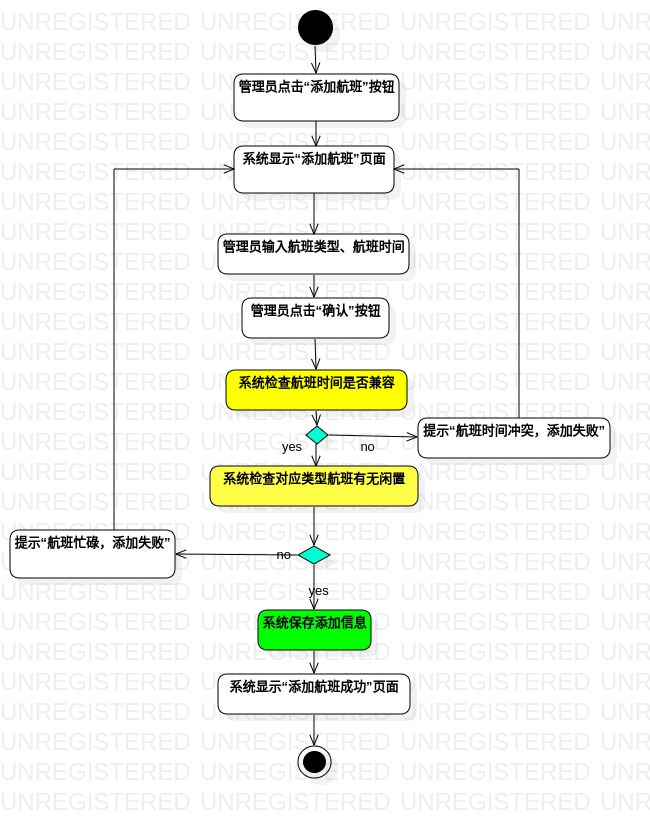
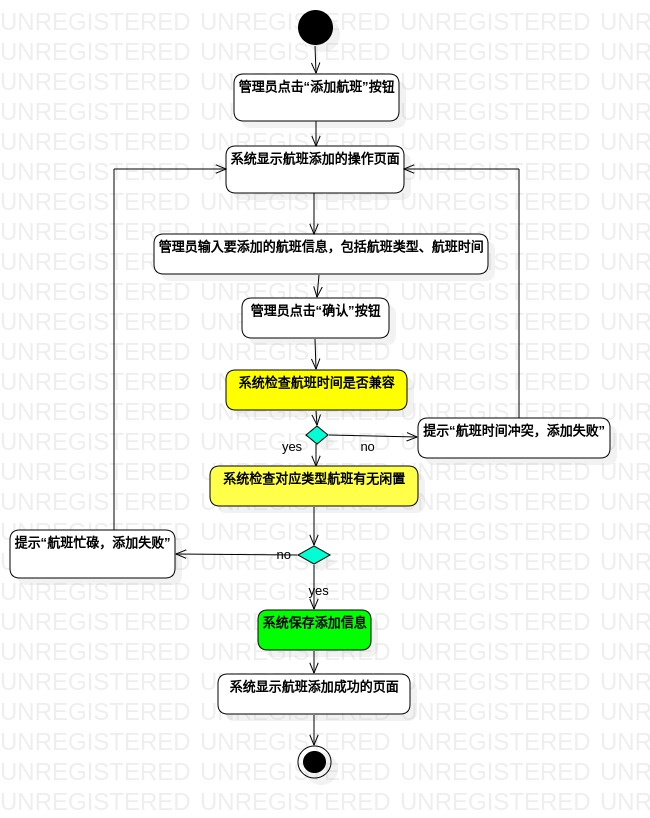
Create lab4&5.md

diff --git a/students/1714080901141/lab4&5.md b/students/1714080901141/lab4&5.md
@@ -1,0 +1,83 @@
+# 实验4&5名称：类建模&高级类建模
+
+## 一、实验目标
+
+#### 1. 掌握类建模的方法；
+#### 2. 了解MVC设计模式；
+#### 3. 理解类的5种关系；
+#### 4. 掌握类图的画法；
+#### 5. 掌握类之间关系的画法。
+
+## 二、实验内容
+
+#### 1. 记录类的知识；
+#### 2. 找出具体的类；
+#### 3. 画类图。
+
+## 三、实验步骤
+
+#### 1. 观看录制视频、学习课堂文档：
+1.1 学习来源：
+- [实验四要求](https://github.com/hzuapps/uml-modeling-2020/issues/4)
+- [实验五要求](https://github.com/hzuapps/uml-modeling-2020/issues/5)
+- [实验45相关的录制视频](https://space.bilibili.com/44472532/ )
+- [百度MVC设计模式](https://baike.baidu.com/item/MVC%E6%A1%86%E6%9E%B6/9241230?fromtitle=MVC%E8%AE%BE%E8%AE%A1%E6%A8%A1%E5%BC%8F&fromid=8160955&fr=aladdin)
+- [UML类图](https://www.jianshu.com/p/57620b762160)
+
+1.2 学习笔记：
+
+1.2.1 视图角度：
+- 用例图：做什么？；活动图：怎么做？；类图：谁做？
+- 逻辑视图：类和高级类。
+
+1.2.2 类的基本概念：
+- 类的概念（实体与对象）。
+- 类的构成及画法（类名、可见性(+、#、~、-)、操作和属性等）。
+
+1.2.3 类之间的关系：依赖（虚线箭头）、关联（实线）、聚合（实线白色菱形箭头）、组合（实线黑色菱形箭头）、继承（实线白三角形）。
+- 依赖：对于两个相对独立的对象，当一个对象负责构造另一个对象的实例，或者依赖另一个对象的服务时，这两个对象之间主要体现为依赖关系。
+- 关联：对于两个相对独立的对象，当一个对象的实例与另一个对象的一些特定实例存在固定的对应关系时，这两个对象之间为关联关系。
+- 聚合：表示一种弱的‘拥有’关系，即has-a的关系，体现的是A对象可以包含B对象，但B对象不是A对象的一部分。 两个对象具有各自的生命周期。
+- 组合：组合是一种强的‘拥有’关系，是一种contains-a的关系，体现了严格的部分和整体关系，部分和整体的生命周期一样。
+- 继承：继承表示是一个类（称为子类、子接口）继承另外的一个类（称为父类、父接口）的功能，并可以增加它自己的新功能的能力。
+
+1.2.4 MVC设计模式：
+- MVC：Model(业务数据)、View(界面)、Controller(功能+控制器)；C可控制M和V，M和V隔绝。
+- Model:模型、实体和**业务数据**；
+- View：视图、**界面**和AbcUI。
+- Controller：控制器、**系统**、Controller和Service。
+
+#### 2. 确定具体的类：
+
+2.1 添加航班：
+- Model(主要根据数据业务寻找)：航班信息A和要添加的航班信息B，其中B聚合于A；
+- View(主要根据“页面”关键字寻找)：航班添加成功页面和添加航班操作页面；
+- Controller(功能+控制器):航班添加控制器。
+
+2.2 取消航班：
+- Model(主要根据数据业务寻找)：航班信息A和要取消的航班信息B，其中B聚合于A；
+- View(主要根据“页面”关键字寻找)：所选航班正在取消的页面、可取消的航班的信息页面和航班取消成功的页面；
+- Controller(功能+控制器):航班取消控制器。
+
+#### 3. 画类图步骤如下：
+
+3.1 根据确定的具体的类，给类命名；
+
+3.2 根据类的类型(M/V/C)，给类标注；
+
+3.3 根据Model间的关系强弱，选择关系对应的线的类型，进行连线。
+
+## 四、实验结果
+
+#### 1. 类图1：添加航班
+![ClassDiagram1](./lab45_ClassDiagram1.jpg)
+
+#### 2. 类图2：取消航班
+![ClassDiagram2](./lab45_ClassDiagram2.jpg)
+
+## 五、实验总结
+
+#### 1. MVC设计模式是一种软件设计典范，用一种业务逻辑、数据、界面显示分离的方法组织代码，将业务逻辑聚集到一个部件里面，在改进和个性化定制界面及用户交互的同时，不需要重新编写业务逻辑。
+
+#### 2. 本次类图的画法为： 先根据Model（业务数据）、View（页面）和Controller（功能+控制器）找出具体的类，标注好类型（M/V/C），确定类之间的关系，如果有箭头，注意箭头指向。
+

diff --git a/students/1714080901141/lab2.md b/students/1714080901141/lab2.md
@@ -49,15 +49,15 @@
 前置条件  |  管理员已登录飞机订票管理系统   | *可选*   
 后置条件  |     | *可选*   
 基本流程  | 1. 管理员点击“添加航班”按钮；  | *用例执行成功的步骤*
-~| 2. 系统显示“添加航班”页面；  | 
-~| 3. 管理员输入航班类型、航班时间；|
+~| 2. 系统显示航班添加的操作页面；  | 
+~| 3. 管理员输入要添加的航班信息，包括航班类型、航班时间；|
 ~| 4. 管理员点击“确认”按钮； |
 ~| 5. 系统检查航班时间可兼容;  |
 ~| 6. 系统检查对应类型航班有闲置;  |
 ~| 7. 系统保存添加信息；  |
-~| 8. 系统显示“添加航班成功”页面。 |
-扩展流程  | 5.1 系统检查航班时间不可兼容，提示“航班时间冲突，添加失败”，返回“添加航班”页面。  |*用例执行失败的步骤*
-~| 6.1 系统检查对应类型航班无闲置，提示“航班忙碌，添加失败”，返回“添加航班”页面;  |
+~| 8. 系统显示航班添加成功的页面。 |
+扩展流程  | 5.1 系统检查航班时间不可兼容，提示“航班时间冲突，添加失败”，返回航班添加的操作页面；  |*用例执行失败的步骤*
+~| 6.1 系统检查对应类型航班无闲置，提示“航班忙碌，添加失败”，返回航班添加的操作页面。 |
 ##### 表2：取消航班用例规约
 用例编号  | UC02 | 备注  
 -|:-|-  
@@ -65,17 +65,17 @@
 前置条件  |  管理员已登录系统   | *可选*   
 后置条件  |     | *可选*   
 基本流程  | 1. 管理员点击“取消航班”按钮；  |*用例执行成功的步骤* 
-~| 2. 系统显示“可取消的航班信息”页面； |
-~| 3. 管理员选择航班，编辑致歉信息；|
+~| 2. 系统显示可取消的航班的信息页面； |
+~| 3. 管理员选择要取消的航班，编辑致歉信息；|
 ~| 4. 管理员点击“取消航班”按钮；  |
-~| 5. 系统重新检测到所选航班可取消；  |
-~| 6. 系统显示“航班正在取消”页面；  | *选择需要时间，有时差，需要实时重新检查（step2已经检测过一次）*
+~| 5. 系统重新检测到所选航班可取消；  |*选择需要时间，有时差，需要实时重新检查（step2已经检测过一次）*
+~| 6. 系统显示所选航班正在取消的页面；  | 
 ~| 7. 系统保存取消信息；  |
 ~| 8. 系统修改客户订单；  |
 ~| 9. 系统触发对应客户的退款业务；  |
 ~| 10. 系统发送致歉信息给对应客户；  |
-~| 11. 系统显示“航班取消成功”页面。  |
-扩展流程  | 5.1 系统重新检测到所选航班不可取消，显示“航班取消失败”页面。 |*用例执行失败的步骤* 
+~| 11. 系统显示航班取消成功的页面。  |
+扩展流程  | 5.1 系统重新检测到所选航班不可取消，显示航班取消失败的页面。 |*用例执行失败的步骤* 
 
 ## 四、 实验结果  
 #### 图1：用例图
